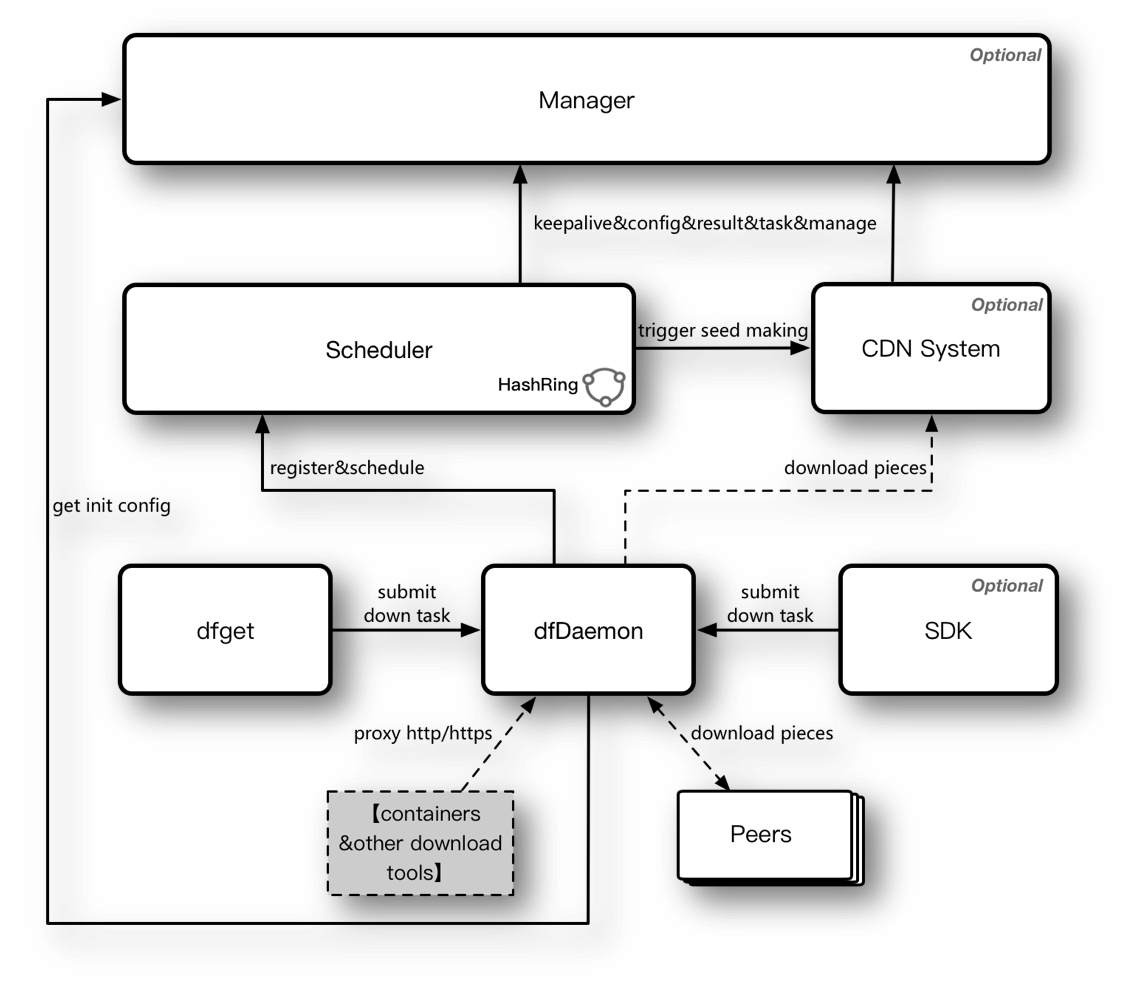
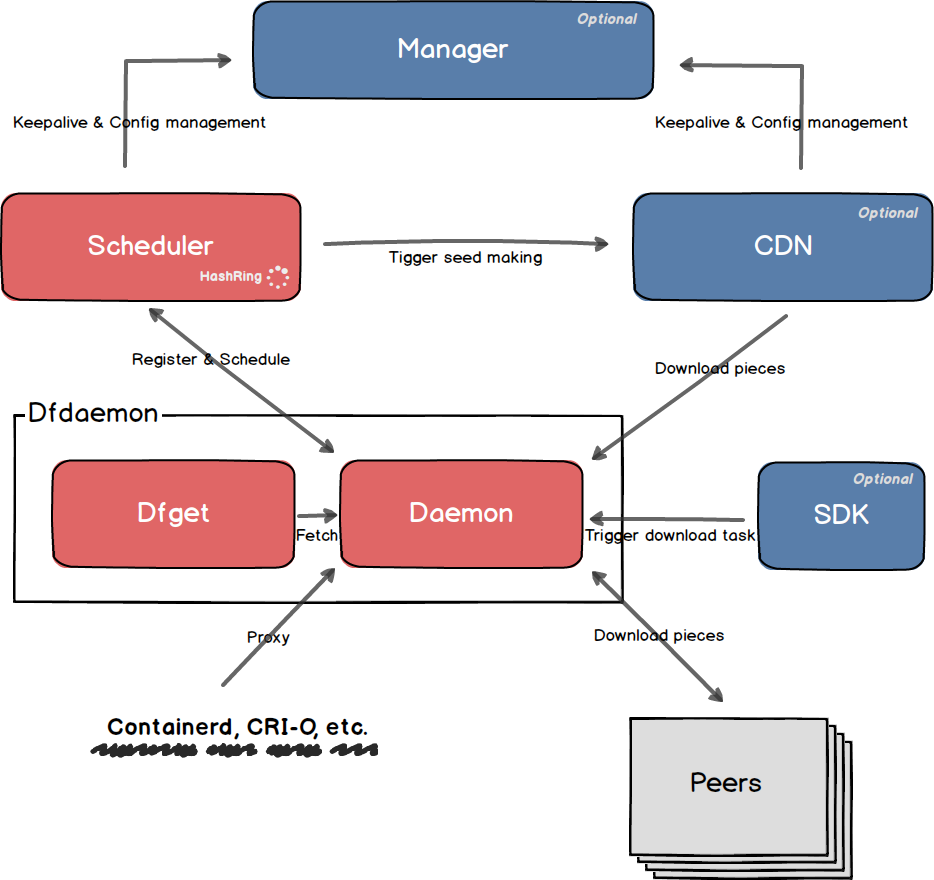
docs: init readme

diff --git a/README.md b/README.md
@@ -1,6 +1,6 @@
-# Dragonfly2
+# Dragonfly
 
-![alt](docs/en/images/logo/dragonfly-linear.svg)
+<img src="docs/en/images/logo/dragonfly-linear.svg" alt="logo" width="400"/>
 
 [![GitHub release](https://img.shields.io/github/release/dragonflyoss/Dragonfly2.svg)](https://github.com/dragonflyoss/Dragonfly2/releases)
 [![CI](https://github.com/dragonflyoss/Dragonfly2/actions/workflows/ci.yaml/badge.svg)](https://github.com/dragonflyoss/Dragonfly2/actions/workflows/ci.yaml)
@@ -9,98 +9,72 @@
 [![Open Source Helpers](https://www.codetriage.com/dragonflyoss/dragonfly2/badges/users.svg)](https://www.codetriage.com/dragonflyoss/dragonfly2)
 [![TODOs](https://badgen.net/https/api.tickgit.com/badgen/github.com/dragonflyoss/Dragonfly2/main)](https://www.tickgit.com/browse?repo=github.com/dragonflyoss/Dragonfly2&branch=main)
 [![Discussions](https://img.shields.io/badge/discussions-on%20github-blue?style=flat-square)](https://github.com/dragonflyoss/Dragonfly2/discussions)
+[![Twitter](https://img.shields.io/twitter/url?style=social&url=https%3A%2F%2Ftwitter.com%2Fdragonfly_oss)](https://twitter.com/dragonfly_oss)
 [![GoDoc](https://godoc.org/github.com/dragonflyoss/Dragonfly2?status.svg)](https://godoc.org/github.com/dragonflyoss/Dragonfly2)
 [![LICENSE](https://img.shields.io/github/license/dragonflyoss/Dragonfly2.svg?style=flat-square)](https://github.com/dragonflyoss/Dragonfly2/blob/main/LICENSE)
 
-## 产品定位
-提供企业级（高效、稳定、安全、低成本、产品化）的文件分发与管理服务，并成为在该领域的云原生最佳实践与标准解决方案
+Provide efficient, stable, secure, low-cost file and image distribution services to be the best practice and standard solution in the related Cloud-Native area.
 
-## 解决的问题
-1. 架构设计缺陷：现有架构很难满足日益增长的文件分发业务需要，在稳定性、效率以及安全性等方面逐渐暴露出不足，并受到越来越多的挑战
-2. 价值渗透不足：当前只能支持HTTP回源协议，针对其他类型的存储（比如HDFS、各云厂商的存储服务、Maven、YUM等等）缺乏适配，从而导致覆盖的场景受到极大制约，进一步阻碍了其在公司和社区的推广以及价值传播
-3. 分发模式单一：目前只支持主动拉取模式，缺少主动推送以及主动同步能力，而这些能力是满足我们产品定位的基本条件
-4. 产品化能力缺失：没有提供完善的控制台功能，比如分发任务管理与管控、数据大盘、多租户以及权限控制等等
-5. 内外版本不一致，维护成本高，新特性及问题修复难以短时间内同步
+## Features
 
-## 核心能力
-+ 通过统一的回源适配层及实现支持各种不同类型存储（HDFS、各云厂商的存储服务、Maven、YUM等等）的P2P文件分发能力
-+ 支持更多的分发模式：主动拉取、主动推送、实时同步、远程复制、自动预热、跨云传输等等
-+ 系统之间分离解耦，调度与CDN插件化，且支持按需部署，可轻可重，可内可外，灵活满足不同场景的实际需要
-+ 基于grpc全新设计的P2P协议框架，效率及稳定性更佳
-+ 支持加密传输、基于账号的传输鉴权与限流、多租户隔离机制
-+ 支持更高效的IO方式：多线程IO、内存映射、DMA等
-+ 支持动态压缩、内存文件系统以及更高效的调度算法，提升分发效率
-+ 客户端通过C/S模式支持第三方软件原生集成蜻蜓的P2P能力
-+ 产品化能力：支持文件上传、各种分发模式的任务管理、数据视图以及全局管控等功能
-+ 内外一套，核心特性相互共享，非通用特性各自扩展
-+ 与生态进一步集成：Harbor、Nydus（镜像按需下载解决方案）、各云厂商仓库服务等
+- Implement P2P files distribution with various storage types (HDFS, storage services from various cloud vendors, Maven, Yum, etc.) through a unified back-to-source adapter layer.
+- Support more distribution modes: active pull, active push, real-time synchronization, remote replication, automatic warm-up, cross-cloud transmission, etc.
 
-## 产品架构
-![](docs/prod-arch.png)
+-  Provide separation and decoupling between systems, scheduling and plug-in CDN. Support on-demand deployment with flexible types: light or heavy, inside or outside, to meet the actual needs of different scenarios.
 
-## 技术架构
-![](docs/tech-arch.png)
+- Newly designed P2P protocol framework based on GRPC with improved efficiency and stability.
 
-## 各子系统主要逻辑单元
-Manager
+- Perform encrypted transmission, account-based transmission authentication and rate limit, and multi-tenant isolation mechanism.
 
-+ 动态配置管理
-+ 数据大盘&带宽计量
-+ 文件上传&分发管理与管控
-+ 文件同步管理
-+ 账号&权限控制
-+ 订阅&通知
-+ 多租户管理
-+ 命令通道服务（通道合一）
+- Bear more efficient IO methods: multithreaded IO, memory mapping, DMA, etc.
 
-Scheduler
+- Advocate dynamic compression, in-memory file systems, and more efficient scheduling algorithms to improve distribution efficiency.
 
-+ 基于多维度的P2P调度策略
-+ 智能化调度算法（高级）
-+ 调度结果可量化对比以及支持A/B Testing
-+ 调度策略插件化以及CDN子系统插件化
-+ 元信息下发管道
-+ 客户端下载结果和回源结果统计以及与监控服务的对接
+- Client allows third-party software to natively integrate Dragonfly’s P2P capabilities through C/S mode.
 
-CdnSystem
+- Productivity: Support file uploading, task management of various distribution modes, data visualization, global control, etc.
 
-+ 多源适配能力，包括目录下载和Range下载功能
-+ DMA读写
-+ 回源中转
-+ 分发预热
-+ 动态压缩
-+ 存储管理（种子存放、磁盘清理、块级存储）
-+ 内存文件系统
-+ 安全传输（对称加密、完整性校验等）
-+ 存储介质插件化
+- Consistent internal and external versions, shared core features, and individual extensions of non-generic features.
 
-Client (dfdaemon、dfget)
+- Enhanced integration with ecology: Harbor, Nydus (on-demand image download), warehouse services for various cloud vendors, etc.
 
-+ 多源适配能力，包括目录下载和Range下载功能（和CDN一致）
-+ 高效IO机制
-+ 多下载任务的IO调度（高IO吞吐量）
-+ 减少文件读写次数：改进临时文件存放方式、文件完整性校验改进
-+ DMA读写（和CDN一致）
-+ 流式传输
-+ 客户端下载Proxy能力（http、https）
-+ 单服务进程启动（CS模式）以及常驻和非常驻模式
-+ 失败回源处理
-+ 本地缓存能力（客户端seeder模式）
-+ 客户端优雅升级与部署方案
-+ 命令执行
+## Architecture
 
-Framework
+<img src="docs/en/images/architecture.png" alt="logo" width="800"/>
 
-+ 高可用、高性能、易集成
-+ 一致性Hash算法选主
-+ 客户端连接管理
+**Manager:** Used to manage the dynamic configuration that each module depends on, and provide keepalive and metrics functions.
 
-## 最近半年任务计划
+**Scheduler:** The tracker and scheduler in the P2P network that choose appropriate downloading net-path for each peer.
 
-+ 一月：基本框架开发完成，主流程跑通
-+ 二月：核心能力初步具备，同时支持客户端Proxy功能以及流式传输功能，Manager和CDN支持可插拔以及多源适配能力；release v2.0.0 alpha 版本
-+ 三月：进一步改进性能和稳定性并引入相关高级特性支持，生产环境灰度上线；和Nydus、主流镜像仓库服务完成集成；release v2.0.0 beta版本
-+ 四月：支持数据大盘以及带宽计量等数据化功能；release v2.0.0 正式版本
-+ 五月：上海外滩大会PR；支持订阅通知、文件主动推送、远程拷贝、跨云传输等产品化能力
-+ 六月：支持命令通道，完成通道合一；支持伪实时同步及多语言SDK支持；集团全量上线，完成内部版本和社区版本的最终合一
+**CDN:** A CDN server that caches downloaded data from source to avoid downloading same files repeatedly.
 
+**Daemon:** Used for pulling images only. It establishes a proxy between containerd/CRI-O and registry.
+
+**Dfget:** The client of Dragonfly used for downloading files. It's similar to wget.
+
+## Getting Started
+
+- [Introduction][introduction]
+- [Installation][installation]
+- [Quick start][quickstart]
+
+## Documentation
+You can find the Dragonfly documentation [on the website][website].
+
+## Community
+- Discussions: [Github Discussion Forum][discussion]
+- DingTalk: 23304666
+
+## Contributing
+You should check out our [CONTRIBUTING][contributing] and develop the project together.
+
+## Code of Conduct
+Please refer to our [Code of Conduct][codeconduct].
+
+[contributing]: ./CONTRIBUTING.md
+[codeconduct]: ./CODE_OF_CONDUCT.md
+[introduction]: https://github.com/dragonflyoss/Dragonfly2
+[installation]: https://github.com/dragonflyoss/Dragonfly2
+[quickstart]: https://github.com/dragonflyoss/Dragonfly2
+[website]: https://d7y.io
+[discussion]: https://github.com/dragonflyoss/Dragonfly2/discussions

diff --git a/docs/README.md b/docs/README.md
@@ -1,0 +1,2 @@
+# Contributing to Dragonfly2 Docs
+
